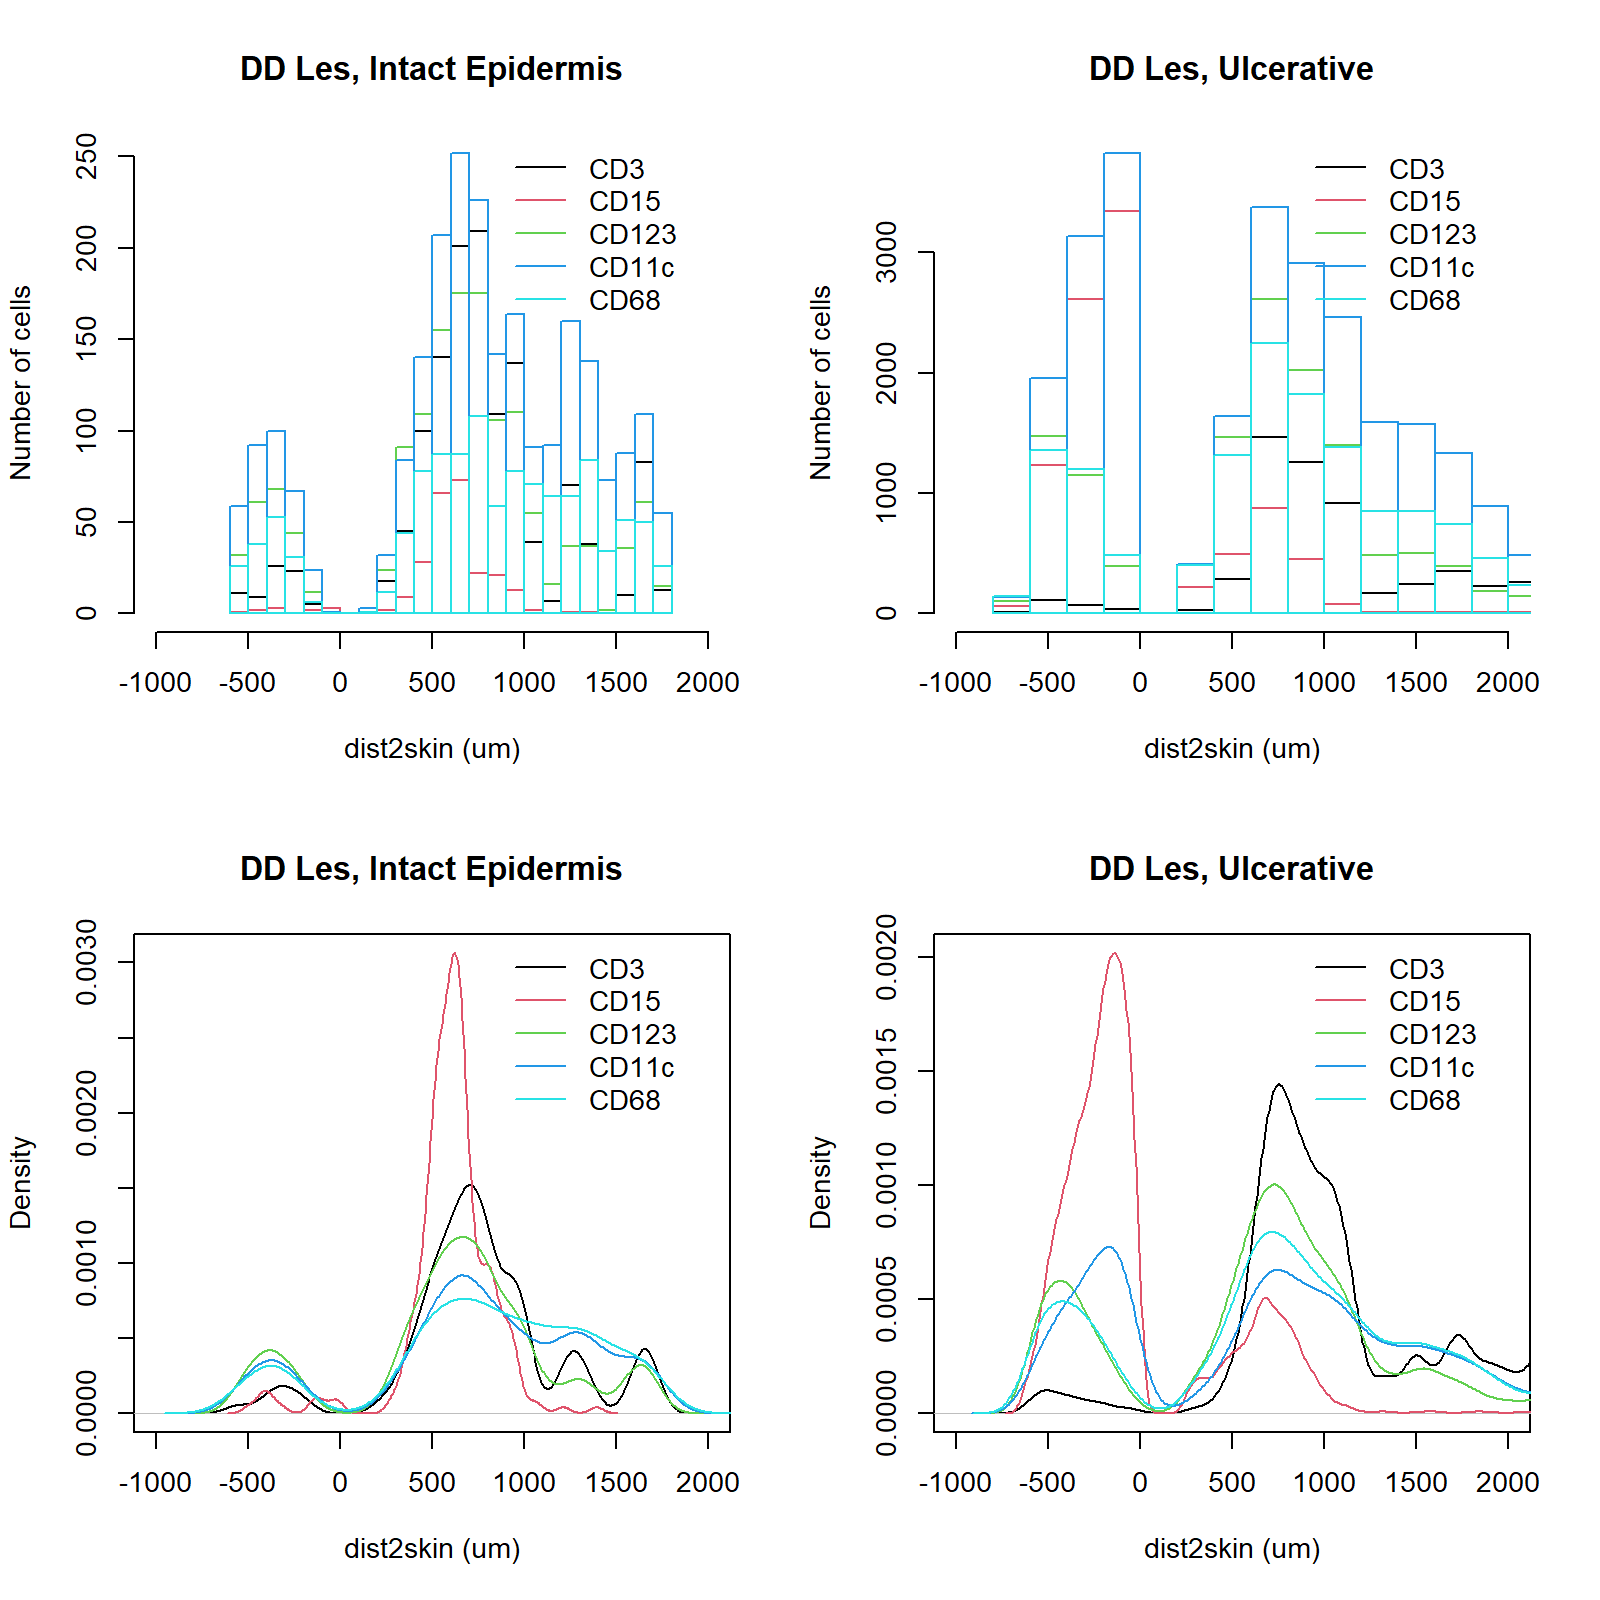
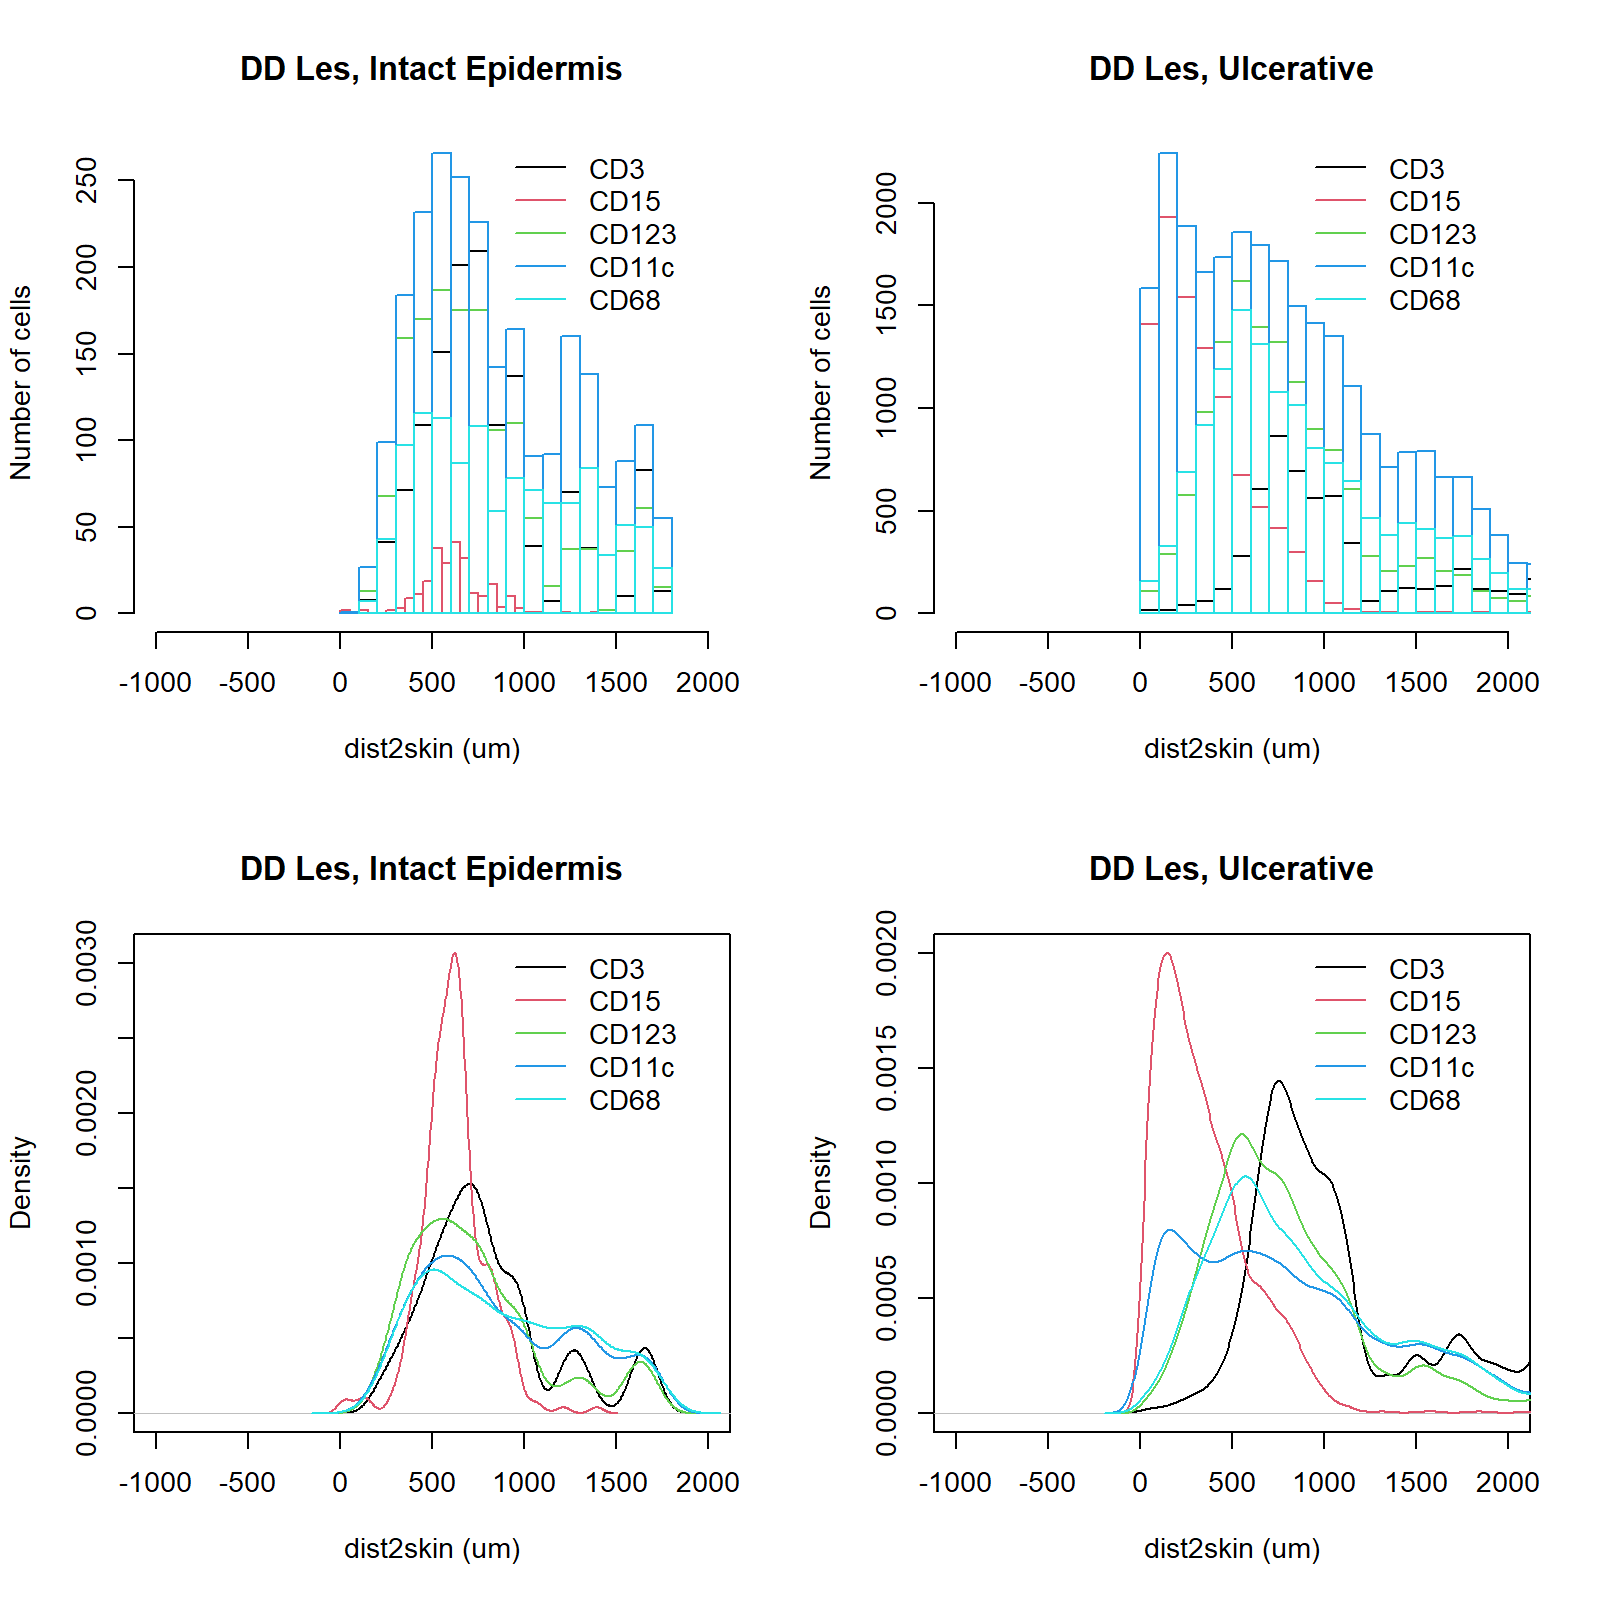
updates

diff --git a/report_DEJ_skin_CFDD.md b/report_DEJ_skin_CFDD.md
@@ -22,10 +22,10 @@ These two questions are also intertwined. If we use WGA only to draw boundaries,
 ## Results
 
 ### DEJ DD
-![plot](R/figures/DD_dist2DEJ_compare_markers.png?raw=true)![plot](R/figures/DD_dist2skin_compare_markers.png?raw=true)
-
+![plot](R/figures/DD_dist2DEJ_compare_markers.png?raw=true)
 
 ### Skin DD  
+![plot](R/figures/DD_dist2skin_compare_markers.png?raw=true)
 
 
 ### DEJ CF 
